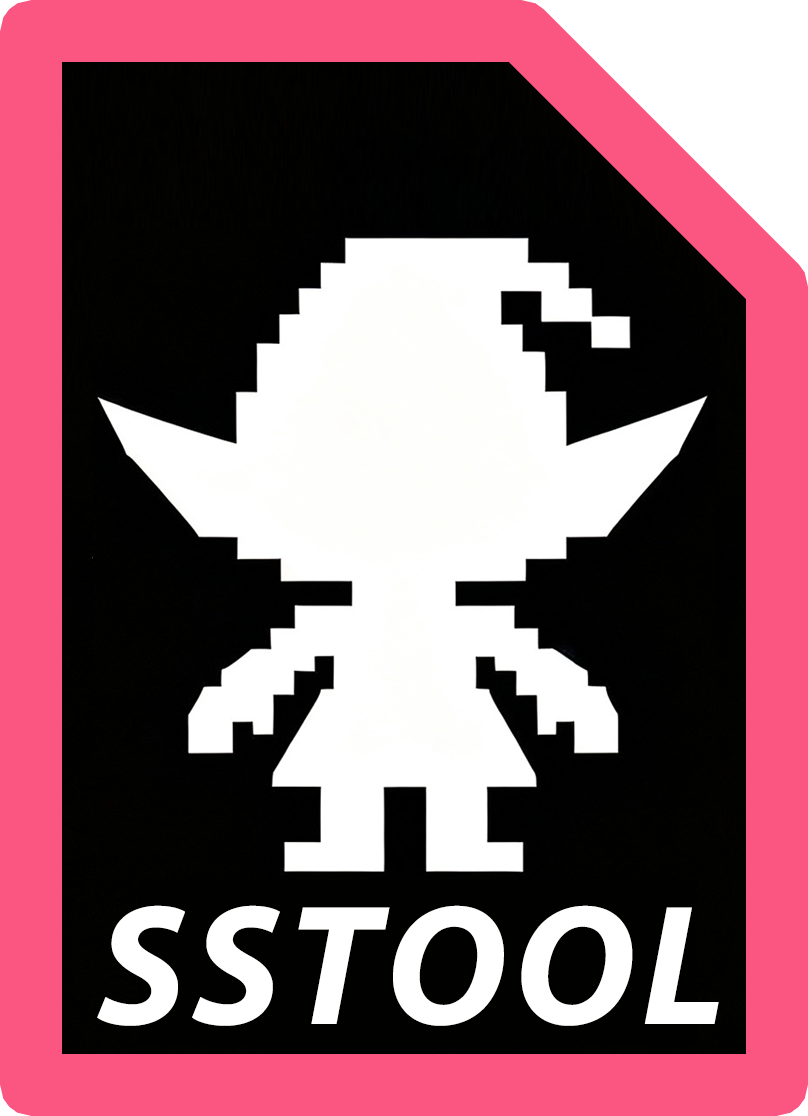
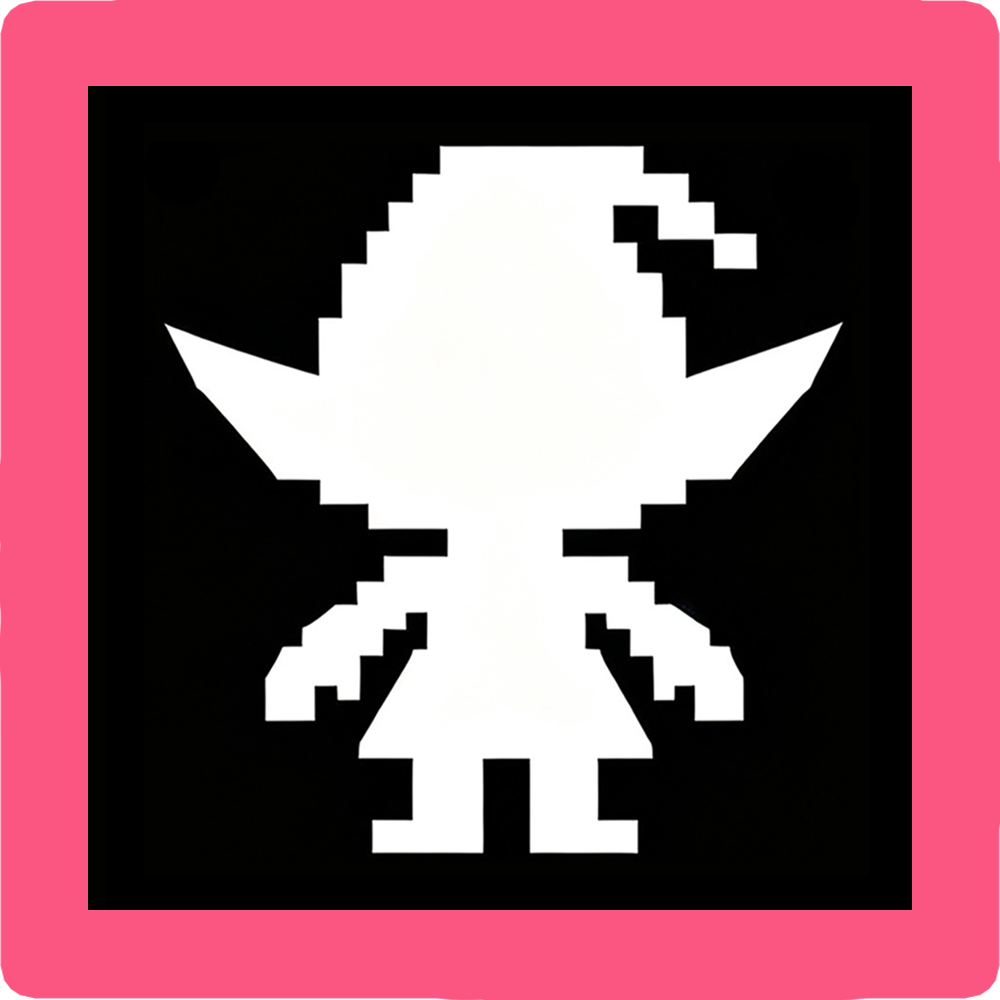
feat(assets): 换用新的方形角标，并量化校验角标位置（v1.1.19）
- 工程图标.png 换成 1000x1000 方形圆角版本（四角透明），作为工程缩略图右下角的角标。
  实测渲染：特征色 RGB(251,85,130)、52x52（缩略图短边的 25%）、距右下各 6px、
  位于右下角 —— 与代码里的绘制规则（短边/4、边距/8）一致。
- SSTool.ico 保持不变（7 档标准方形），它是工程文件的大图标，用于缩略图显示不出来
  或其它回退场景。
- tools/inspect_project_file.py 增加角标量化：取角标图的**最高频不透明色**作特征色，
  在缩略图里定位它的包围盒并报告占短边比例与边距。
  踩坑记录：一开始用「平均色」，角标是多色组成、平均值偏灰（实测 RGB(139,87,100)），
  结果把精灵画面里的相近颜色也算进来，得出 88% 短边的离谱包围盒；改用最高频色后
  信号干净（该色占角标 32% 像素）。

diff --git a/tools/inspect_project_file.py b/tools/inspect_project_file.py
@@ -56,10 +56,51 @@ def main() -> int:
         from PIL import Image
         im = Image.open(io.BytesIO(data[:end]))
         print(f"  缩略图尺寸 : {im.size[0]}x{im.size[1]} 模式={im.mode}")
+        _report_badge(im)
     except Exception as exc:  # noqa: BLE001
         print(f"  缩略图解码失败: {exc}")
     win.close()
     return 0
+
+
+def _report_badge(im) -> None:
+    """量化角标：取角标图的**最高频不透明色**当特征色，在缩略图里定位它的包围盒。
+
+    注意别用「平均色」—— 角标通常由多色组成，平均值会偏灰，容易和精灵画面里的
+    相近颜色混淆，得出离谱的包围盒（实测过一次 88% 短边的假结果）。
+    """
+    import collections
+
+    from PIL import Image
+    badge_path = ROOT / "工程图标.png"
+    if not badge_path.exists():
+        return
+    badge = Image.open(badge_path).convert("RGBA")
+    counter = collections.Counter(
+        p[:3] for p in badge.getdata() if p[3] > 240
+    )
+    if not counter:
+        return
+    main, count = counter.most_common(1)[0]
+    rgba = im.convert("RGBA")
+    W, H = rgba.size
+    xs, ys = [], []
+    for y in range(H):
+        for x in range(W):
+            r, g, b, a = rgba.getpixel((x, y))
+            if a > 200 and abs(r - main[0]) < 20 and abs(g - main[1]) < 20 and abs(b - main[2]) < 20:
+                xs.append(x)
+                ys.append(y)
+    if not xs:
+        print(f"  角标       : 未找到（特征色 {main}，角标中占 {count} 像素）")
+        return
+    bx0, bx1, by0, by1 = min(xs), max(xs), min(ys), max(ys)
+    bw, bh = bx1 - bx0 + 1, by1 - by0 + 1
+    print(f"  角标特征色 : RGB{main}（角标内 {count}/{sum(counter.values())} 像素）")
+    print(f"  角标范围   : x {bx0}-{bx1}, y {by0}-{by1}  ({bw}x{bh})")
+    print(f"  角标占短边 : {bw / min(W, H):.0%}   距右 {W - 1 - bx1}px 距下 {H - 1 - by1}px")
+    right_bottom = bx0 > W * 0.55 and by0 > H * 0.55
+    print(f"  位于右下角 : {right_bottom}")
 
 
 if __name__ == "__main__":

diff --git a/spritesheet/__init__.py b/spritesheet/__init__.py
@@ -1,4 +1,4 @@
-"""SpriteSheetTool —— 精灵图打包工具。"""
+"""SpriteSheetTool —— 精灵图打包工具。"""
 
-__version__ = "1.1.18"
+__version__ = "1.1.19"
 __app_name__ = "SpriteSheetTool"
